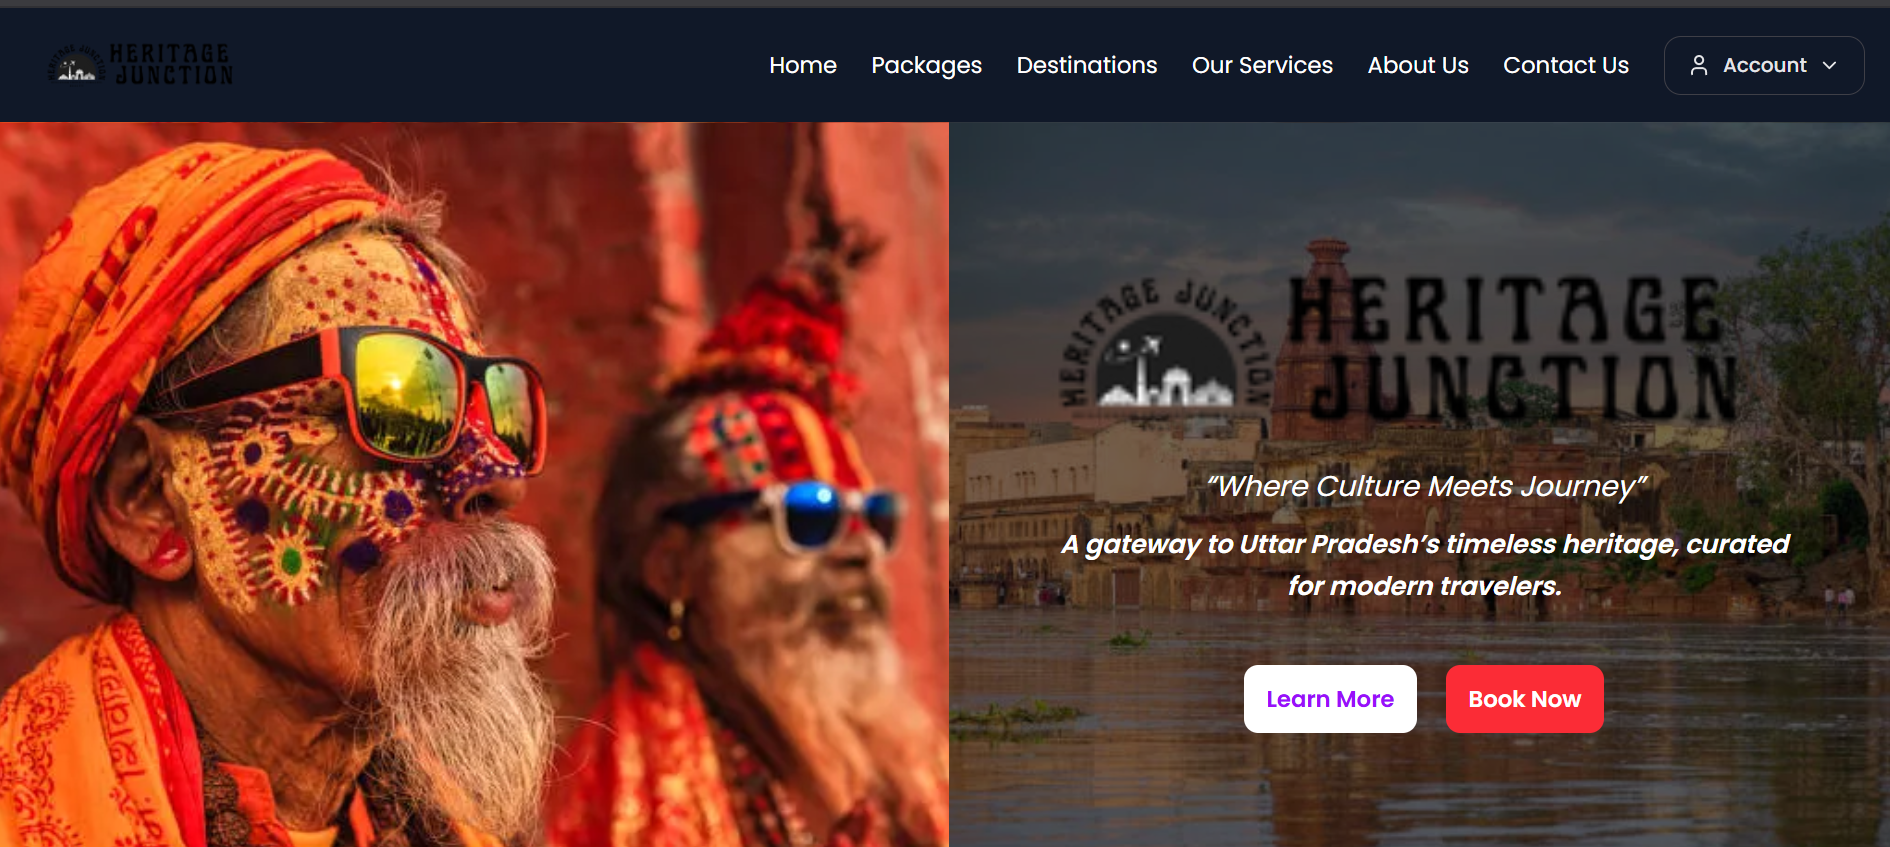
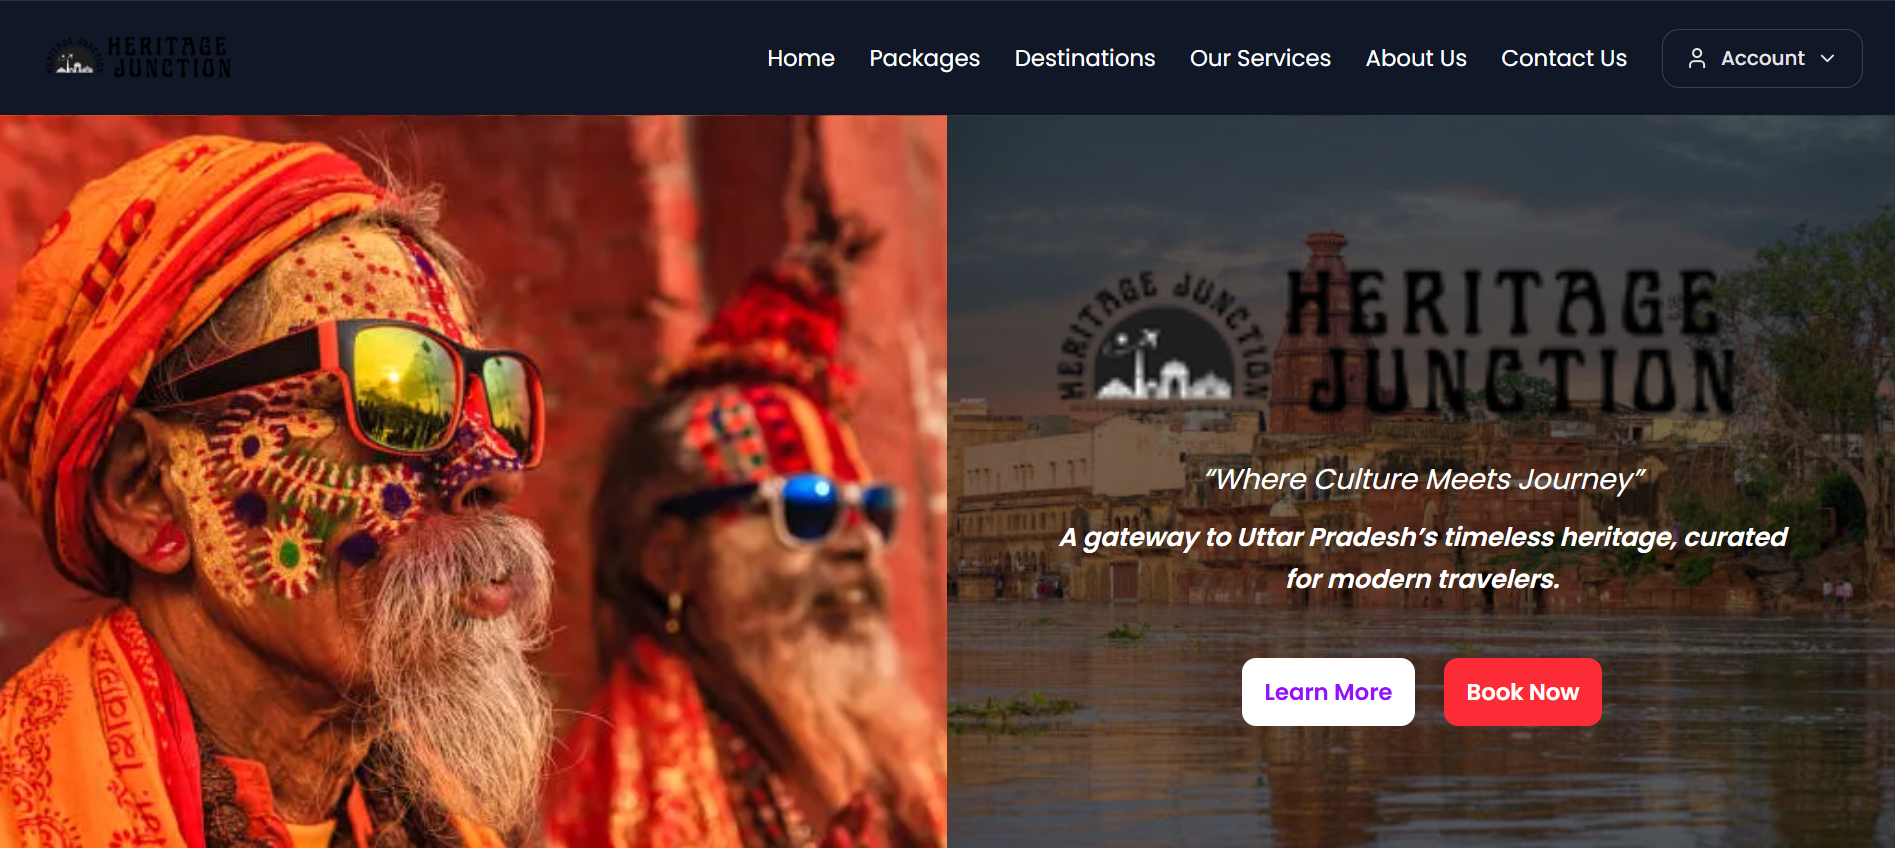
Improve HTML according to best standards

diff --git a/index.html b/index.html
@@ -1,21 +1,92 @@
 <!doctype html>
 <html lang="en">
+  <head>
+    <meta charset="UTF-8" />
 
-<head>
-  <meta charset="UTF-8" />
-  <link rel="icon" type="image/svg+xml" href="/Profile.jpeg" />
-  <meta name="viewport" content="width=device-width, initial-scale=1.0" />
-  <title>Kartikeya Mishra</title>
-  <link rel="preconnect" href="https://fonts.googleapis.com">
-  <link rel="preconnect" href="https://fonts.gstatic.com" crossorigin>
-  <link
-    href="https://fonts.googleapis.com/css2?family=Poppins:ital,wght@0,100;0,200;0,300;0,400;0,500;0,600;0,700;0,800;0,900;1,100;1,200;1,300;1,400;1,500;1,600;1,700;1,800;1,900&family=Roboto:ital,wght@0,100..900;1,100..900&display=swap"
-    rel="stylesheet">
-</head>
+    <!-- Viewport -->
+    <meta
+      name="viewport"
+      content="width=device-width, initial-scale=1.0"
+    />
 
-<body>
-  <div id="root"></div>
-  <script type="module" src="/src/main.jsx"></script>
-</body>
+    <!-- Primary SEO -->
+    <title>Kartikeya Mishra | Full-Stack Developer</title>
 
+    <meta
+      name="description"
+      content="Kartikeya Mishra is a full-stack developer building modern web applications with JavaScript, React, Node.js, Express, MongoDB, Laravel, Docker, and DevOps technologies."
+    />
+
+    <meta
+      name="keywords"
+      content="Kartikeya Mishra, Full Stack Developer, MERN Developer, React Developer, Node.js Developer, JavaScript Developer, Laravel Developer, DevOps, System Design"
+    />
+
+    <meta name="author" content="Kartikeya Mishra" />
+
+    <!-- Search engine behavior -->
+    <meta name="robots" content="index, follow" />
+
+    <!-- Theme -->
+    <meta name="theme-color" content="#ffffff" />
+
+    <!-- Favicon -->
+    <link rel="icon" type="image/jpeg" href="/Profile.jpeg" />
+
+    <!-- Canonical URL -->
+    <link rel="canonical" href="https://my-domain.com/" />
+
+    <!-- Open Graph / Social Sharing -->
+    <meta property="og:type" content="website" />
+    <meta
+      property="og:title"
+      content="Kartikeya Mishra | Full-Stack Developer"
+    />
+    <meta
+      property="og:description"
+      content="Portfolio of Kartikeya Mishra — full-stack developer focused on modern web development, system design, and DevOps."
+    />
+    <meta
+      property="og:image"
+      content="https://my-domain.com/Profile.jpeg"
+    />
+    <meta property="og:url" content="https://my-domain.com/" />
+    <meta property="og:site_name" content="Kartikeya Mishra" />
+
+    <!-- Twitter / X Card -->
+    <meta name="twitter:card" content="summary_large_image" />
+    <meta
+      name="twitter:title"
+      content="Kartikeya Mishra | Full-Stack Developer"
+    />
+    <meta
+      name="twitter:description"
+      content="Portfolio of Kartikeya Mishra — full-stack developer focused on modern web development, system design, and DevOps."
+    />
+    <meta
+      name="twitter:image"
+      content="https://my-domain.com/Profile.jpeg"
+    />
+
+    <!-- Performance: establish connections early -->
+    <link rel="preconnect" href="https://fonts.googleapis.com" />
+    <link rel="preconnect" href="https://fonts.gstatic.com" crossorigin />
+
+    <!-- Fonts -->
+    <link
+      href="https://fonts.googleapis.com/css2?family=Poppins:wght@400;500;600;700&family=Roboto:wght@400;500;700&display=swap"
+      rel="stylesheet"
+    />
+
+    <!-- React/Vite entry point -->
+    <script type="module" src="/src/main.jsx"></script>
+  </head>
+
+  <body>
+    <noscript>
+      JavaScript is required to view this portfolio.
+    </noscript>
+
+    <div id="root"></div>
+  </body>
 </html>
